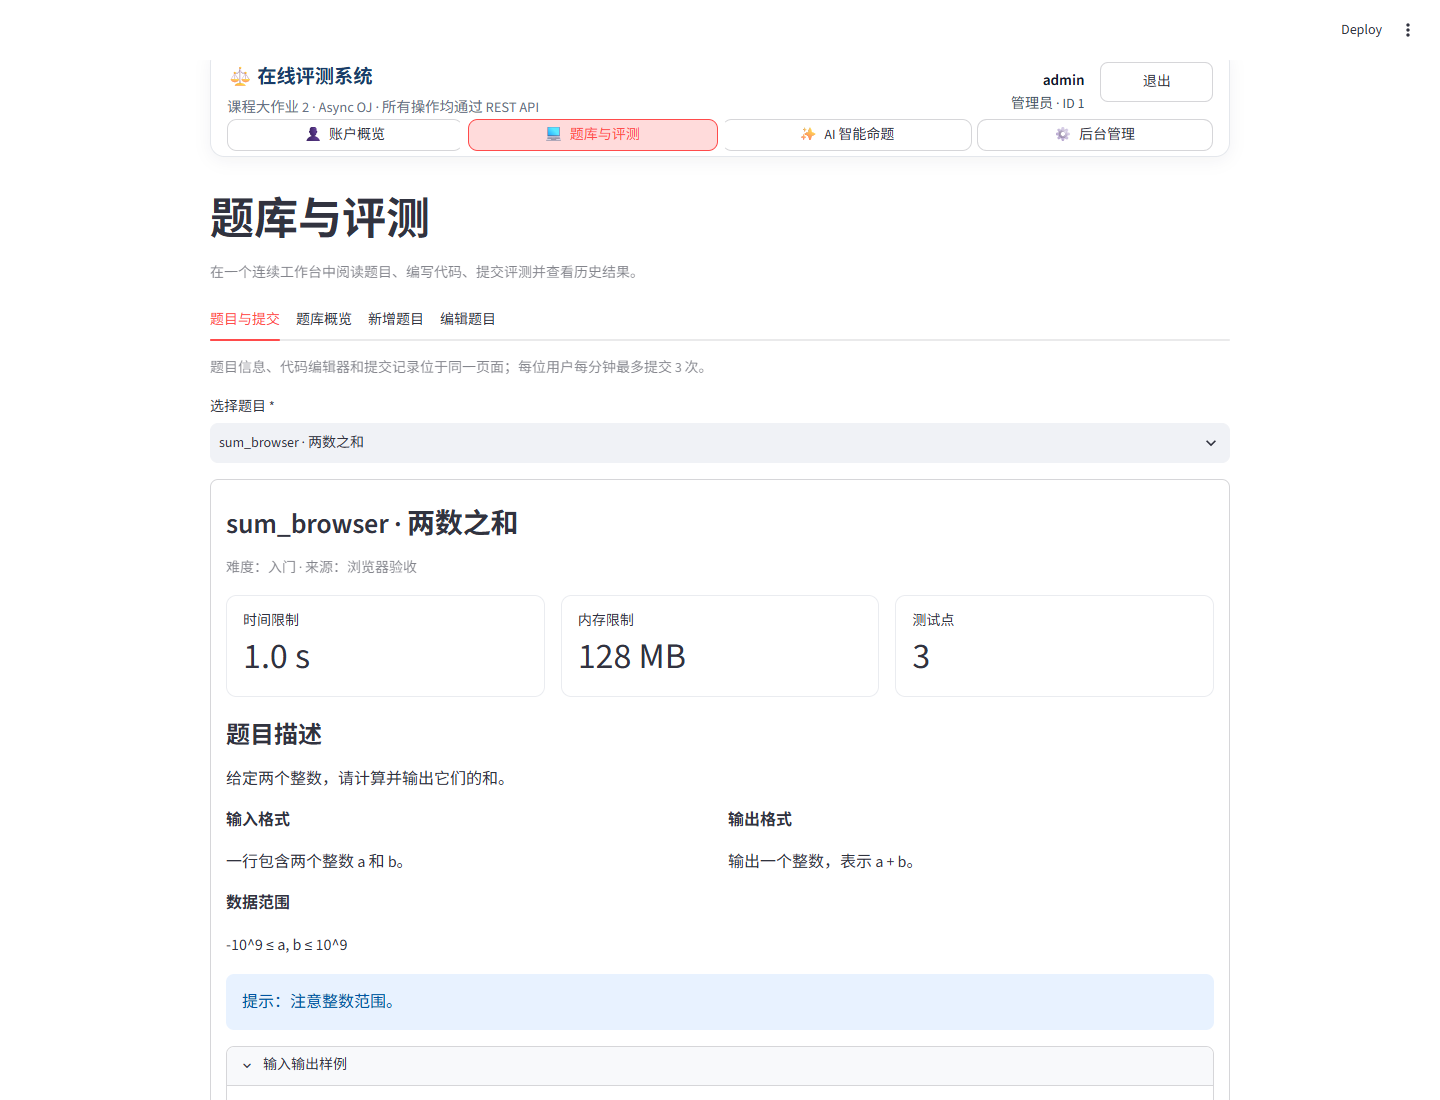
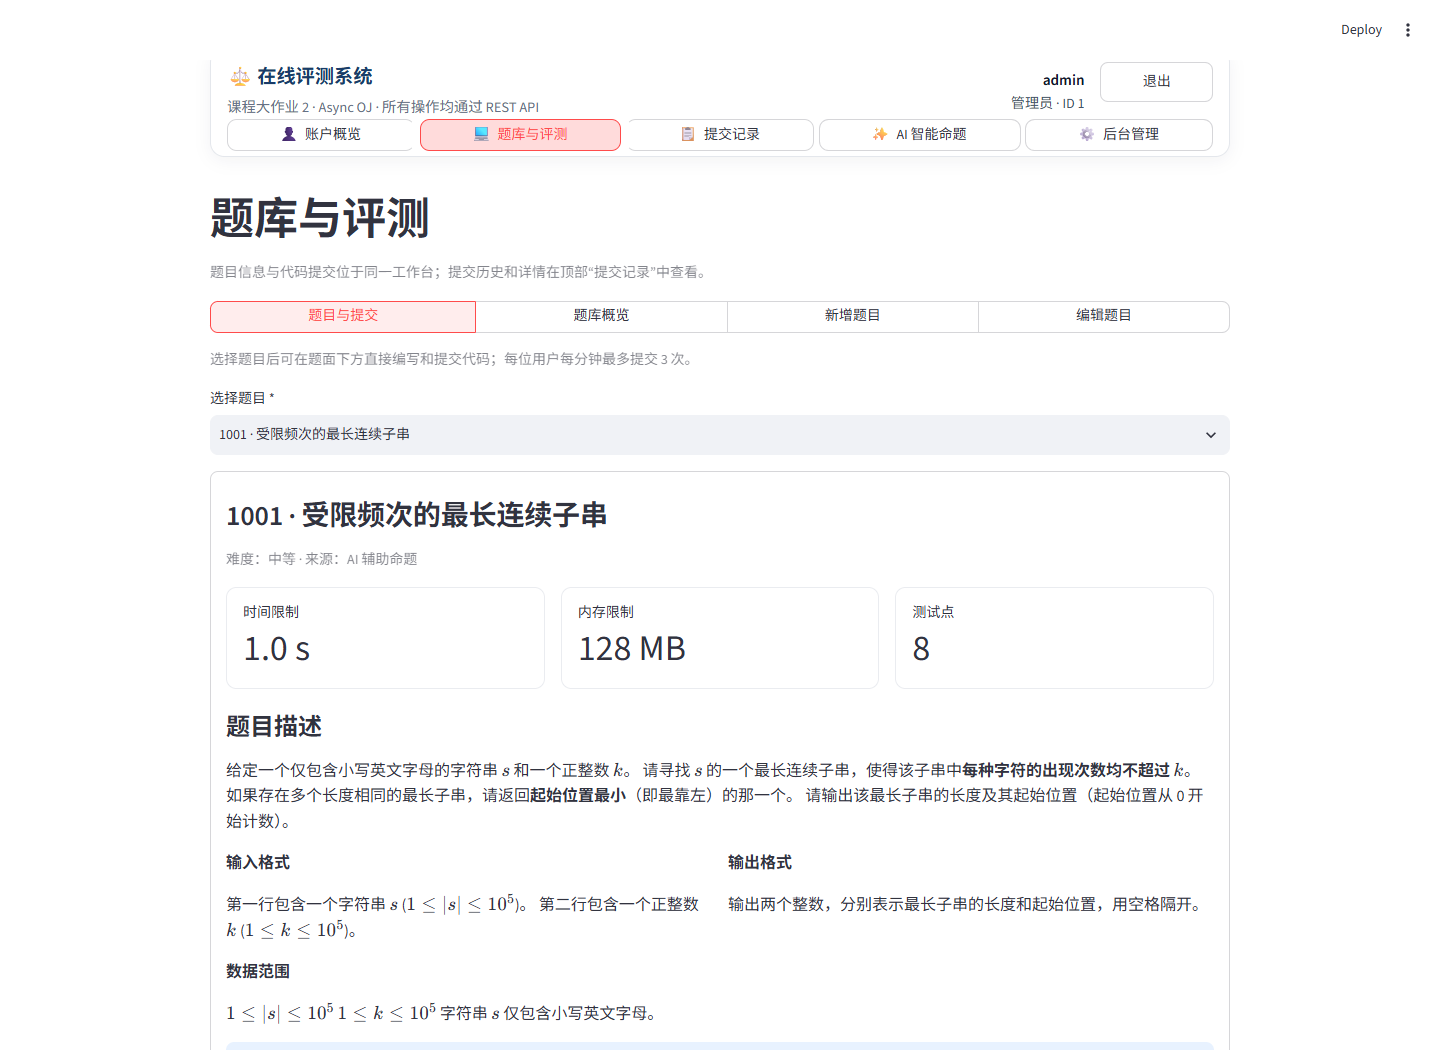
docs: refresh acceptance flow and UI evidence

diff --git a/docs/report.md b/docs/report.md
@@ -10,7 +10,7 @@
 
 判题器在独立临时目录中以参数数组启动编译器或解释器，不使用 `shell=True`。运行期间同时限制时间、递归统计进程树内存、限制输出大小，并在超时或取消后终止整个进程组。系统支持 AC、WA、TLE、MLE、RE、CE 和 UNK，按每个通过测试点 10 分计分。
 
-AI 模块把命题拆分为需求分析、题面与解法、边界测试点、结构校验与试运行四个阶段，持续报告进度，统计 Token 与费用，并在保存前通过 Pydantic 结构校验和受限判题器试跑参考解法。API Key 只保存在进程内存中，不进入数据库、日志或响应。
+AI 模块把命题拆分为需求分析、题面与解法、边界测试点、结构校验与试运行四个阶段，持续报告进度，统计 Token 与费用，并在保存前通过 Pydantic 结构校验和受限判题器试跑参考解法。API Key 仅加密保存在忽略提交的本机配置文件中，不进入数据库、日志或响应，服务重启后可继续使用。
 
 ## 一、需求与评分点映射
 
@@ -51,11 +51,11 @@ docs/                报告源稿与线下验收清单
 
 ### 3.2 认证、角色与封禁
 
-登录成功后只在签名 Session Cookie 中保存用户标识，密码使用 bcrypt 哈希。初始化和系统重置都会创建 `admin / admintestpassword`。普通用户只能访问本人提交；管理员可管理题目、语言、角色、全部提交与访问审计；被封禁用户即使持有旧会话也会在依赖层被拒绝。
+登录成功后只在签名 Session Cookie 中保存用户标识，密码使用 bcrypt 哈希；账户中心支持校验当前密码后安全改密。初始化和系统重置都会创建 `admin / admintestpassword`。普通用户可新增和编辑题目且只能访问本人提交；管理员额外负责题目删除与日志公开策略、语言、角色、全部提交和访问审计；被封禁用户即使持有旧会话也会在依赖层被拒绝。
 
 ### 3.3 日志可见性与审计
 
-题目支持公开或隐藏测试点日志。管理员始终可查看，普通用户可查看本人提交；题目开启公开后，其他已登录用户也可查看。系统记录资源存在前提下的成功访问和权限拒绝，不记录未登录、参数错误与不存在资源，既满足审计要求，也避免将无效探测写入日志。
+题目支持公开或隐藏测试点日志。管理员始终可查看，普通用户可查看本人提交；题目开启公开后，其他已登录用户也可查看。系统记录资源存在前提下的成功访问和权限拒绝，不记录未登录、参数错误与不存在资源。后台把用户/题目 ID 映射为名称，提供允许、拒绝、涉及用户汇总和最近访问卡片，使权限矩阵可以现场直观核对。
 
 ## 四、判题器关键实现
 
@@ -79,29 +79,29 @@ docs/                报告源稿与线下验收清单
 
 ## 六、AI 智能命题
 
-模型设置包括配置名、兼容接口 URL、模型名、API Key、输入/输出单价、计价单位和币种。每位用户可以保存并选择多个模型；完整配置使用由 `OJ_SESSION_SECRET` 派生的密钥加密写入本机文件，服务重启后无需重新输入。API、数据库和日志只返回是否已配置，不返回密钥本身；系统重置会删除加密配置。验收可使用任意 OpenAI-compatible 服务，程序未硬编码厂商。
+模型设置包括配置名、兼容接口 URL、模型名、API Key、输入/输出单价、计价单位和币种。每位用户可以保存并选择多个模型；完整配置使用由 `OJ_SESSION_SECRET` 派生的密钥加密写入本机文件，服务重启后无需重新输入。API、数据库和日志只返回是否已配置，不返回密钥本身；系统重置会删除加密配置。OpenAI-compatible 协议没有统一价格接口，系统为可识别的百炼 Qwen URL/模型提供带官方来源、地区和阶梯说明的价格预设，其他模型安全回退手动填写，因此仍兼容任意提供商。
 
-AI 任务包含四个可观察阶段：需求分析、题面与参考解法、边界测试点、结构校验与试运行。隐藏测试点默认由模型结合算法复杂度、边界规模与预计运行时长自动决定 2–10 个，用户也可手动指定数量；样例与隐藏测试点分别存储。模型请求优先采用 OpenAI-compatible SSE 增量响应，前端实时显示当前阶段输出；若兼容服务不支持流式参数，则自动回退普通 Chat Completions 响应。每次调用聚合 prompt/completion/total Token；若提供商不返回 usage，界面明确标记无法精确统计。费用依据配置的计价单位计算。
+AI 任务包含四个可观察阶段：需求分析、题面与参考解法、边界测试点、结构校验与试运行。隐藏测试点默认由模型结合算法复杂度、边界规模与预计运行时长自动决定 2–10 个，用户也可手动指定数量；样例与隐藏测试点分别存储。模型请求优先采用 OpenAI-compatible SSE 增量响应，前端实时显示当前阶段输出；若兼容服务不支持流式参数，则自动回退普通 Chat Completions 响应。系统按阶段聚合请求次数、输入、输出、思考、缓存和提供商 total Token；思考 Token 已包含在输出 Token 中。若提供商不返回 usage 或失败重试无法计量，界面明确标记估算。DashScope Qwen 可关闭思考模式以显著减少非必要输出 Token。
 
-模型输出必须通过严格的 Pydantic 题目结构校验，并同时提供 Python 3 与 C++14 参考解法；两份代码都需在同一受限判题器中跑过全部生成测试点。服务请求临时失败时自动重试两次；结构校验失败时允许一次带错误反馈的修复请求，仍失败则任务进入 failed。取消接口直接取消 asyncio 任务，传播到正在进行的 httpx 流式请求和本地试运行。
+模型输出必须通过严格的 Pydantic 题目结构校验，并同时提供 Python 3 与 C++14 参考解法；两份代码都需在同一受限判题器中跑过全部生成测试点。解析器容忍模型偶发的字符串控制字符，并归一化常见根结构与解法字段别名。服务请求临时失败时自动重试两次；结构校验失败时最多执行两次带完整契约与错误反馈的重新生成，仍失败才进入 failed。取消接口直接取消 asyncio 任务，传播到正在进行的 httpx 流式请求和本地试运行；通过后由服务端把题目作者固定为实际模型名。
 
 ## 七、前端与交互
 
-Streamlit 前端在屏幕顶部提供账户概览、题库与评测、AI 智能命题和后台管理导航，并显示当前用户名、中文角色与退出按钮；入口按角色精简，权限仍由后端最终裁决。题库与在线评测合并在同一工作区，默认“题目与提交”页面连续展示完整题面、限制、样例、代码编辑器和提交记录。编辑器提供行号、Tab 缩进、括号补全、语法高亮、查找替换和 VS Code 快捷键。每条记录保留 AC、WA、TLE、MLE、RE、CE、UNK 或 Pending 的缩写与中文解释，并使用独立颜色；详情可查看源代码和逐测试点结果。
+Streamlit 前端在屏幕顶部提供账户概览、题库与评测、提交记录、AI 智能命题和后台管理导航，并显示当前用户名、中文角色与退出按钮；入口按角色精简，权限仍由后端最终裁决。题库与在线评测合并在同一工作区，默认“题目与提交”页面连续展示完整题面、限制、样例、代码编辑器和独立提交按钮；历史记录与详情位于单独的“提交记录”页。编辑器提供行号、Tab 缩进、括号补全、语法高亮、查找替换和 VS Code 快捷键。每条记录保留 AC、WA、TLE、MLE、RE、CE、UNK 或 Pending 的缩写与中文解释，并使用独立颜色；详情可查看源代码和逐测试点结果。
 
 前端在 `st.session_state` 中保存原生 `httpx.Client`，而不是每次 rerun 都可能因脚本类重新定义而失效的包装器实例。登录、资料、用户、题目、提交、日志、AI 与管理请求因此复用同一 Cookie 容器；退出会同时调用后端 logout 并清理本地 Cookie。通信只使用统一的 `OJ_API_BASE_URL`，登录过期、后端未启动、接口错误、空数据和窄屏均有明确反馈。
 
-AI 模块默认打开“智能命题”，允许从多个已保存配置中选择模型；“模型配置”页展示各模型累计输入/输出 Token 与人民币费用。任务完成后先展示题目、参考解法和测试点预览，再由用户决定是否载入题目新增表单并人工审阅。
+AI 模块默认打开“智能命题”，允许从多个已保存配置中选择模型；“模型配置”页展示各模型累计输入/输出 Token、价格依据与人民币费用。任务完成后先展示题目、参考解法和测试点预览，再由用户决定是否载入；确认后直接跳转新增题目表单并保留人工审阅步骤。
 
 ![Streamlit 在线评测系统题库与评测](assets/ui-overview.png)
 
-图 1　顶部导航及题面、编辑器、彩色提交记录一体化工作区
+图 1　顶部导航及题面、编辑器、独立提交按钮一体化工作区
 
 ## 八、测试设计与边界结果
 
 自动化测试覆盖字段校验、错误优先级、会话、角色与封禁、前端 Cookie 跨 rerun/退出回归、题目 CRUD、语言命令安全、筛选分页、限流、统计、日志可见性、访问审计、重置与 AI 工作流。Linux 集成测试真实执行 Python 和 C++，覆盖 AC、WA、RE、CE、TLE、MLE、空白字符比对、重新评测和进程清理。
 
-最终在 Ubuntu 22.04、Python 3.10.12、G++ 11.4.0 环境运行 38 个测试，结果为 38 passed；后端总行覆盖率为 91.09%，超过 CI 设置的 85% 门槛。Ruff 静态检查和格式检查均通过。
+最终在 Ubuntu 22.04、Python 3.10.12、G++ 11.4.0 环境运行 41 个测试，结果为 41 passed；后端总行覆盖率为 90.36%，超过 CI 设置的 85% 门槛。Ruff 静态检查和格式检查均通过；Edge/Playwright 实际走查管理员与普通用户流程，页面控制台无错误。
 
 AI 测试使用本地假提供商，覆盖成功、非法 JSON、超时/鉴权失败、Token 与费用计算、任务取消，以及生成结果转入编辑器所需的数据结构。CI 在 Ubuntu、Python 3.10 和 G++ 环境执行 Ruff、格式检查与 pytest，并设置 85% 覆盖率门槛。
 

diff --git a/docs/demo-checklist.md b/docs/demo-checklist.md
@@ -6,26 +6,27 @@
 - 从任务面板启动后端和前端，打开 `/health`、`/docs` 和 Streamlit 首页。
 - 执行 `python scripts/seed_demo.py`，准备管理员、普通用户和 A+B 题目。
 - 在另一个浏览器会话保留普通用户登录，便于演示权限矩阵。
-- 在 AI 页面临时填写百炼 URL、模型、Key 和当日价格；不要展示或录制 Key。
+- 在 AI 页面填写百炼 URL、模型和 Key，使用“识别官方单价”带入价格并核对来源；不要展示或录制 Key。
 
 ## 10 分钟主流程
 
 1. 展示 GitHub Conventional Commit 历史和绿色 CI，说明所有 API 使用 `async def`。
-2. 管理员登录后连续切换顶部“账户概览 → 题库与评测 → AI 智能命题 → 后台管理”，确认
+2. 管理员登录后连续切换顶部“账户概览 → 题库与评测 → 提交记录 → AI 智能命题 → 后台管理”，确认
    顶栏始终显示管理员身份，用户与语言列表正常加载且不再出现 401。
 3. 管理员退出后确认回到登录页；普通用户再登录，确认后台管理入口隐藏、题目可访问，退出后
    再访问资料接口应得到 401。
 4. 普通用户在“题库与评测 → 题目与提交”同一页面核对题面、限制与样例，再使用带行号、
    Tab 缩进和括号补全的编辑器提交 Python AC；观察 Pending 变为绿色 AC。
-5. 在页面下方的提交记录中打开该记录，核对源代码和逐点日志；再提交 WA、RE 或 TLE，
+5. 切换顶部“提交记录”打开该记录，核对源代码和逐点日志；再提交 WA、RE 或 TLE，
    确认结果保留缩写、中文解释和各自颜色，而不是笼统显示“未通过”。
 6. 管理员提交/重新评测 C++，再提交一份语法错误代码展示独立的 CE 标签与颜色。
 7. 普通用户尝试查看他人私有日志得到 403；管理员公开题目日志后再次查看成功。
-8. 管理员打开访问审计，展示同一用户的 403 和 200 记录。
-9. 管理员更改用户角色为 banned，展示已有会话和再次登录均被拒绝。
+8. 管理员打开访问审计，使用用户/题目/结果筛选，展示同一用户的红色拒绝与绿色允许记录。
+9. 在账户中心演示修改密码；管理员再更改用户角色为 banned，展示已有会话和再次登录均被拒绝。
 10. 进入 AI 页面，确认默认打开“智能命题”；选择已保存模型，输入知识点、难度和边界要求，
-    保持“自动”测试点策略，展示分阶段流式输出、输入/输出 Token 和人民币费用。
-11. 先创建一项 AI 任务并中断，证明后台实际停止；再完成一项并载入题目新增表单。
+    保持“自动”测试点策略，展示分阶段流式输出、请求次数、输入/输出/思考 Token 和人民币费用。
+11. 先创建一项 AI 任务并中断，证明后台实际停止；再完成一项并载入题目新增表单，确认页面
+    自动跳转且作者为模型名称。
     在预览中切换 Python 3/C++14 参考解法，确认两份代码均已通过自动试运行。
 12. 展示测试结果、Linux CI、架构图和实验报告源文件中的边界测试结果。
 
